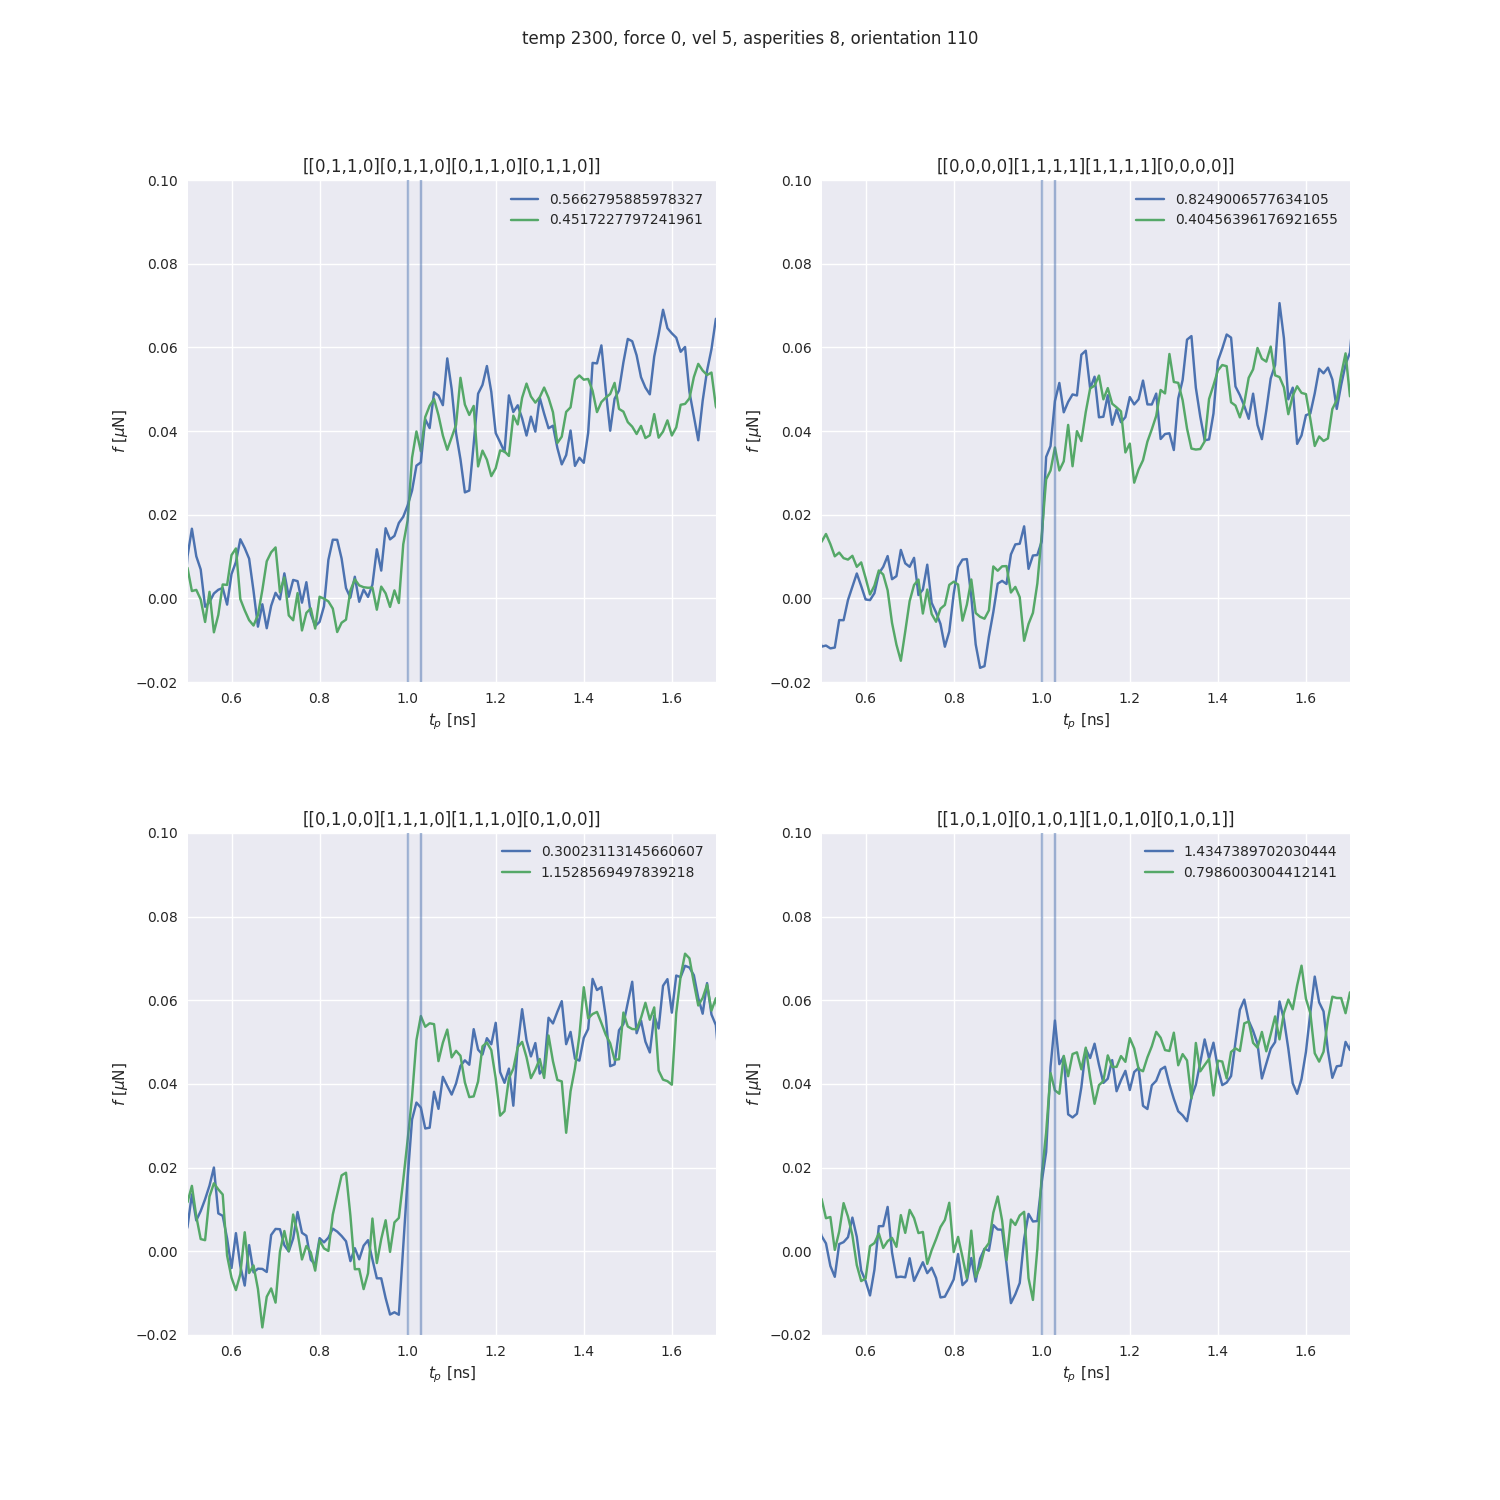
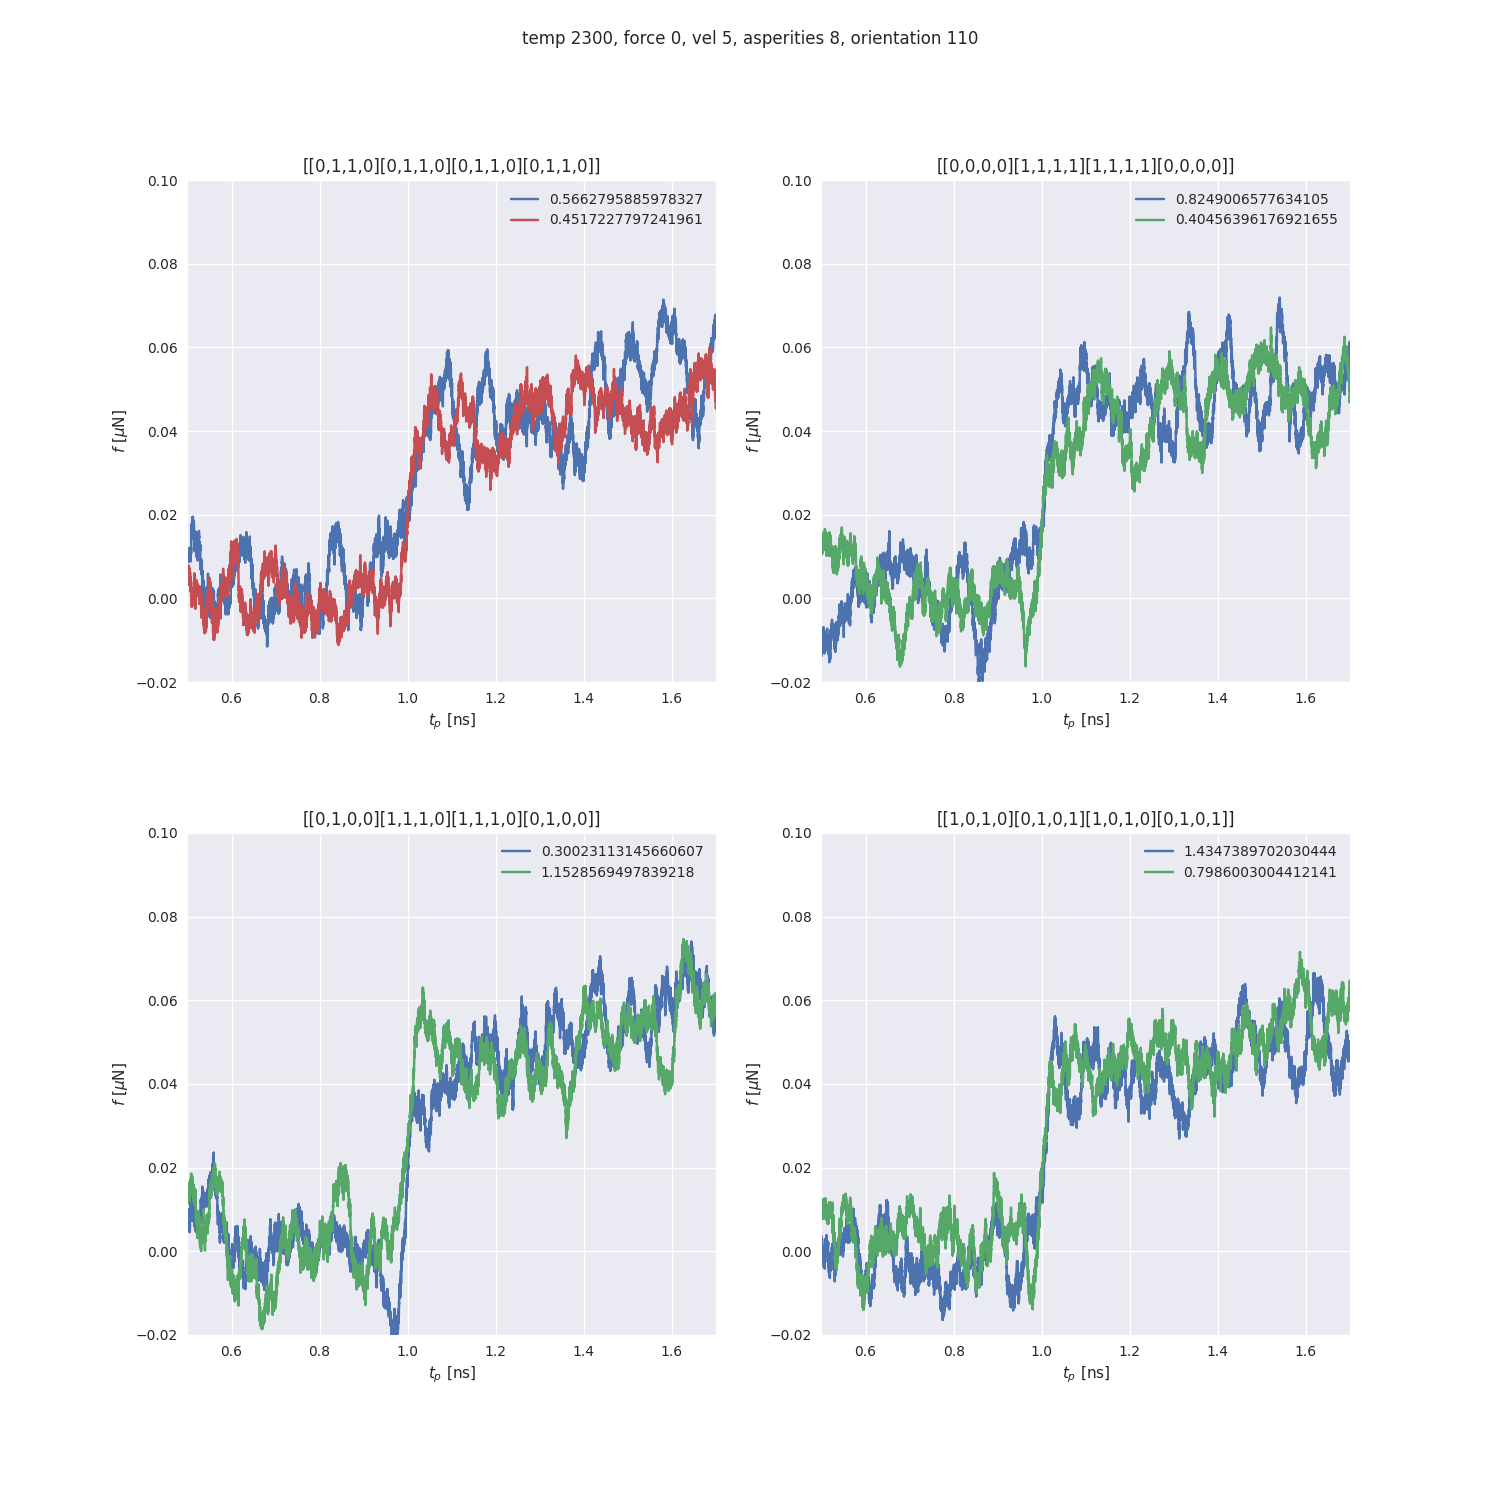
added sigmoid fit to plot. doesn't work very well

diff --git a/python/plot/plot_load_curves.py b/python/plot/plot_load_curves.py
@@ -16,8 +16,14 @@ import matplotlib as mpl
 import matplotlib.pyplot as plt
 from multiline import multiline
 from matplotlib import style
+from scipy.optimize import curve_fit
 plt.style.use('seaborn')
 
+
+
+def sigmoid(x, L ,x0, k, b):
+    y = L / (1 + np.exp(-k*(x-x0))) + b
+    return (y)
 
 def load_displacement(temp, vel, force, orientation, grid, disp_template, initnum, seeds):
     disp_all = []
@@ -102,7 +108,6 @@ def load_load_curves(temp, vel, force, asperities, orientation, grid, template_l
         load_curves = load_curves.reshape(-1, np.shape(load_curves)[0], 2)   # assuming that all curves have 1001 points
     else:
         load_curves = None
-    
     return load_curves_all, load_curves
 
 
@@ -510,6 +515,20 @@ def plot_production(temp, vel, force, uc, asperities, time, orientation, grid, e
         for j, load_curve in enumerate(load_curves_all):
             axs[i].plot(load_curve[:,0], load_curve[:,1], label = rise_all[j])
             axs[i].legend()
+
+            #curve fit doesn't like nan. removing theese for now
+            non_nan_mask = ~np.isnan(load_curve[:,1])
+            time_nnan = load_curve[non_nan_mask,1]
+            load_curve_nnan = load_curve[non_nan_mask,0]
+            p0 = [max(time_nnan), np.median(time_nnan),1,min(load_curve_nnan)] # this is an mandatory initial guess
+            print(p0)
+            try:
+                popt, pcov = curve_fit(sigmoid, time_nnan, load_curve_nnan,p0, method='dogbox')
+            except:
+                print('skipped \n \n')
+                continue #skip this loop iteration
+            axs[i].plot(time_nnan, sigmoid(time_nnan, *popt))
+
         for ms in ms_all:
             axs[i].plot(ms[0], ms[1], 'o') #this is just proprietary
 
@@ -532,8 +551,8 @@ def plot_production(temp, vel, force, uc, asperities, time, orientation, grid, e
         axs[i].set_xlim(left = 0.5, right = 1.7)
         #axs[i].legend(f'mean rise: {rise_mean}') 
         
-        axs[i].axvline(load_curves_all[0][push_start_indx,0], alpha = 0.5)
-        axs[i].axvline(load_curves_all[0][push_stop_indx,0], alpha = 0.5)
+        #axs[i].axvline(load_curves_all[0][push_start_indx,0], alpha = 0.5)
+        #axs[i].axvline(load_curves_all[0][push_stop_indx,0], alpha = 0.5)
     plt.subplots_adjust(hspace=0.3)
     plt.suptitle(f"temp {temp}, force {force}, vel {vel}, asperities {asperities}, orientation {orientation}")
     plt.legend()

diff --git a/python/post/post_utils.py b/python/post/post_utils.py
@@ -336,8 +336,8 @@ def extract_load_curves(logfile, delta=None, init_time=0, window=1,
     # we do not really need 250000 points, it just takes up
     # a lot of space and makes the curves hard to plot.
     # 1000 points should be more than sufficient
-    time_short = time[::250]
-    fx_short = fx[::250]
+    time_short = time#time[::250]
+    fx_short = fx#fx[::250]
     header_lc_intermediate = (
       " \n"
       f"push time: {push_time} ns \n"

diff --git a/python/post/get_load_curves.py b/python/post/get_load_curves.py
@@ -10,6 +10,11 @@ import re
 from glob import glob
 from post_utils import extract_load_curves
 
+
+def sigmoid(x, L ,x0, k, b):
+    y = L / (1 + np.exp(-k*(x-x0))) + b
+    return (y)
+
 def get_load_curves():
     asperities = 8
     uc = 5
